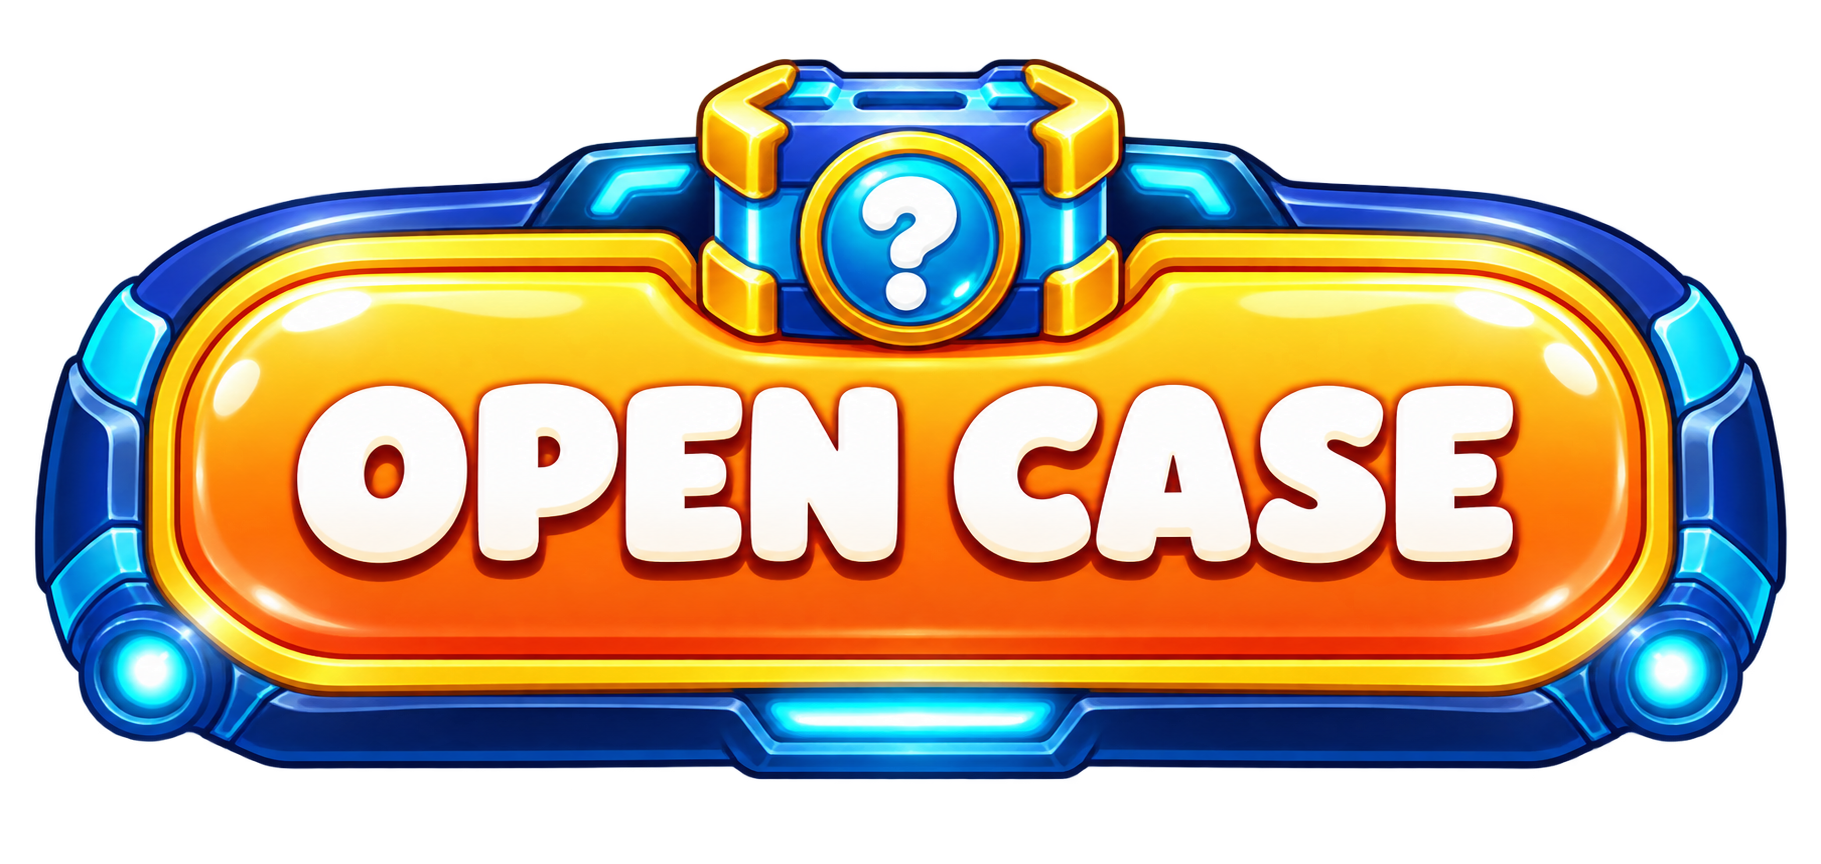
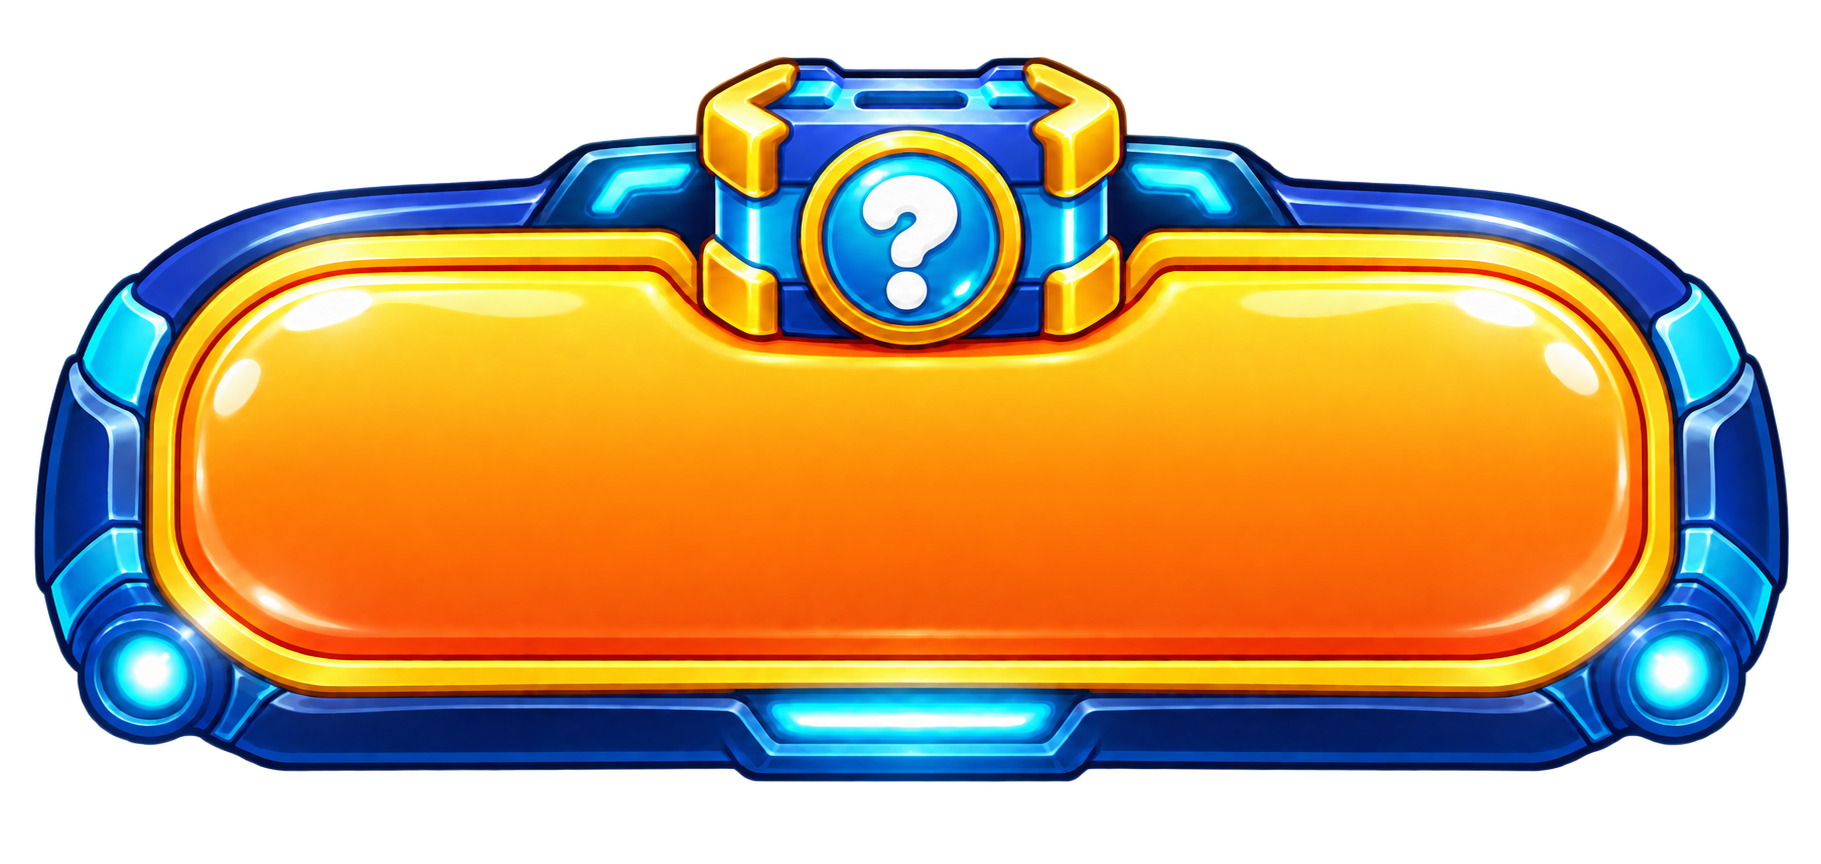
Use Titan One for the Open Case button label

diff --git a/Assets/Scripts/BalloonDogCaseOpening.cs b/Assets/Scripts/BalloonDogCaseOpening.cs
@@ -61,6 +61,10 @@ public sealed class BalloonDogCaseOpening : MonoBehaviour
         open.colors = colors;
         open.onClick.AddListener(OpenCase);
         buttonArt.gameObject.AddComponent<MenuPressScale>();
+        TMP_Text openLabel = Label(buttonArt.transform, "OPEN CASE", new Vector2(0f, -20f),
+            new Vector2(650f, 150f), 70f);
+        openLabel.outlineColor = new Color32(91, 35, 62, 255);
+        openLabel.outlineWidth = 0.18f;
         status = Label(machine, "", new Vector2(0f, -549f), new Vector2(780f, 59f), 25f);
         ShowIdle();
         Refresh();
